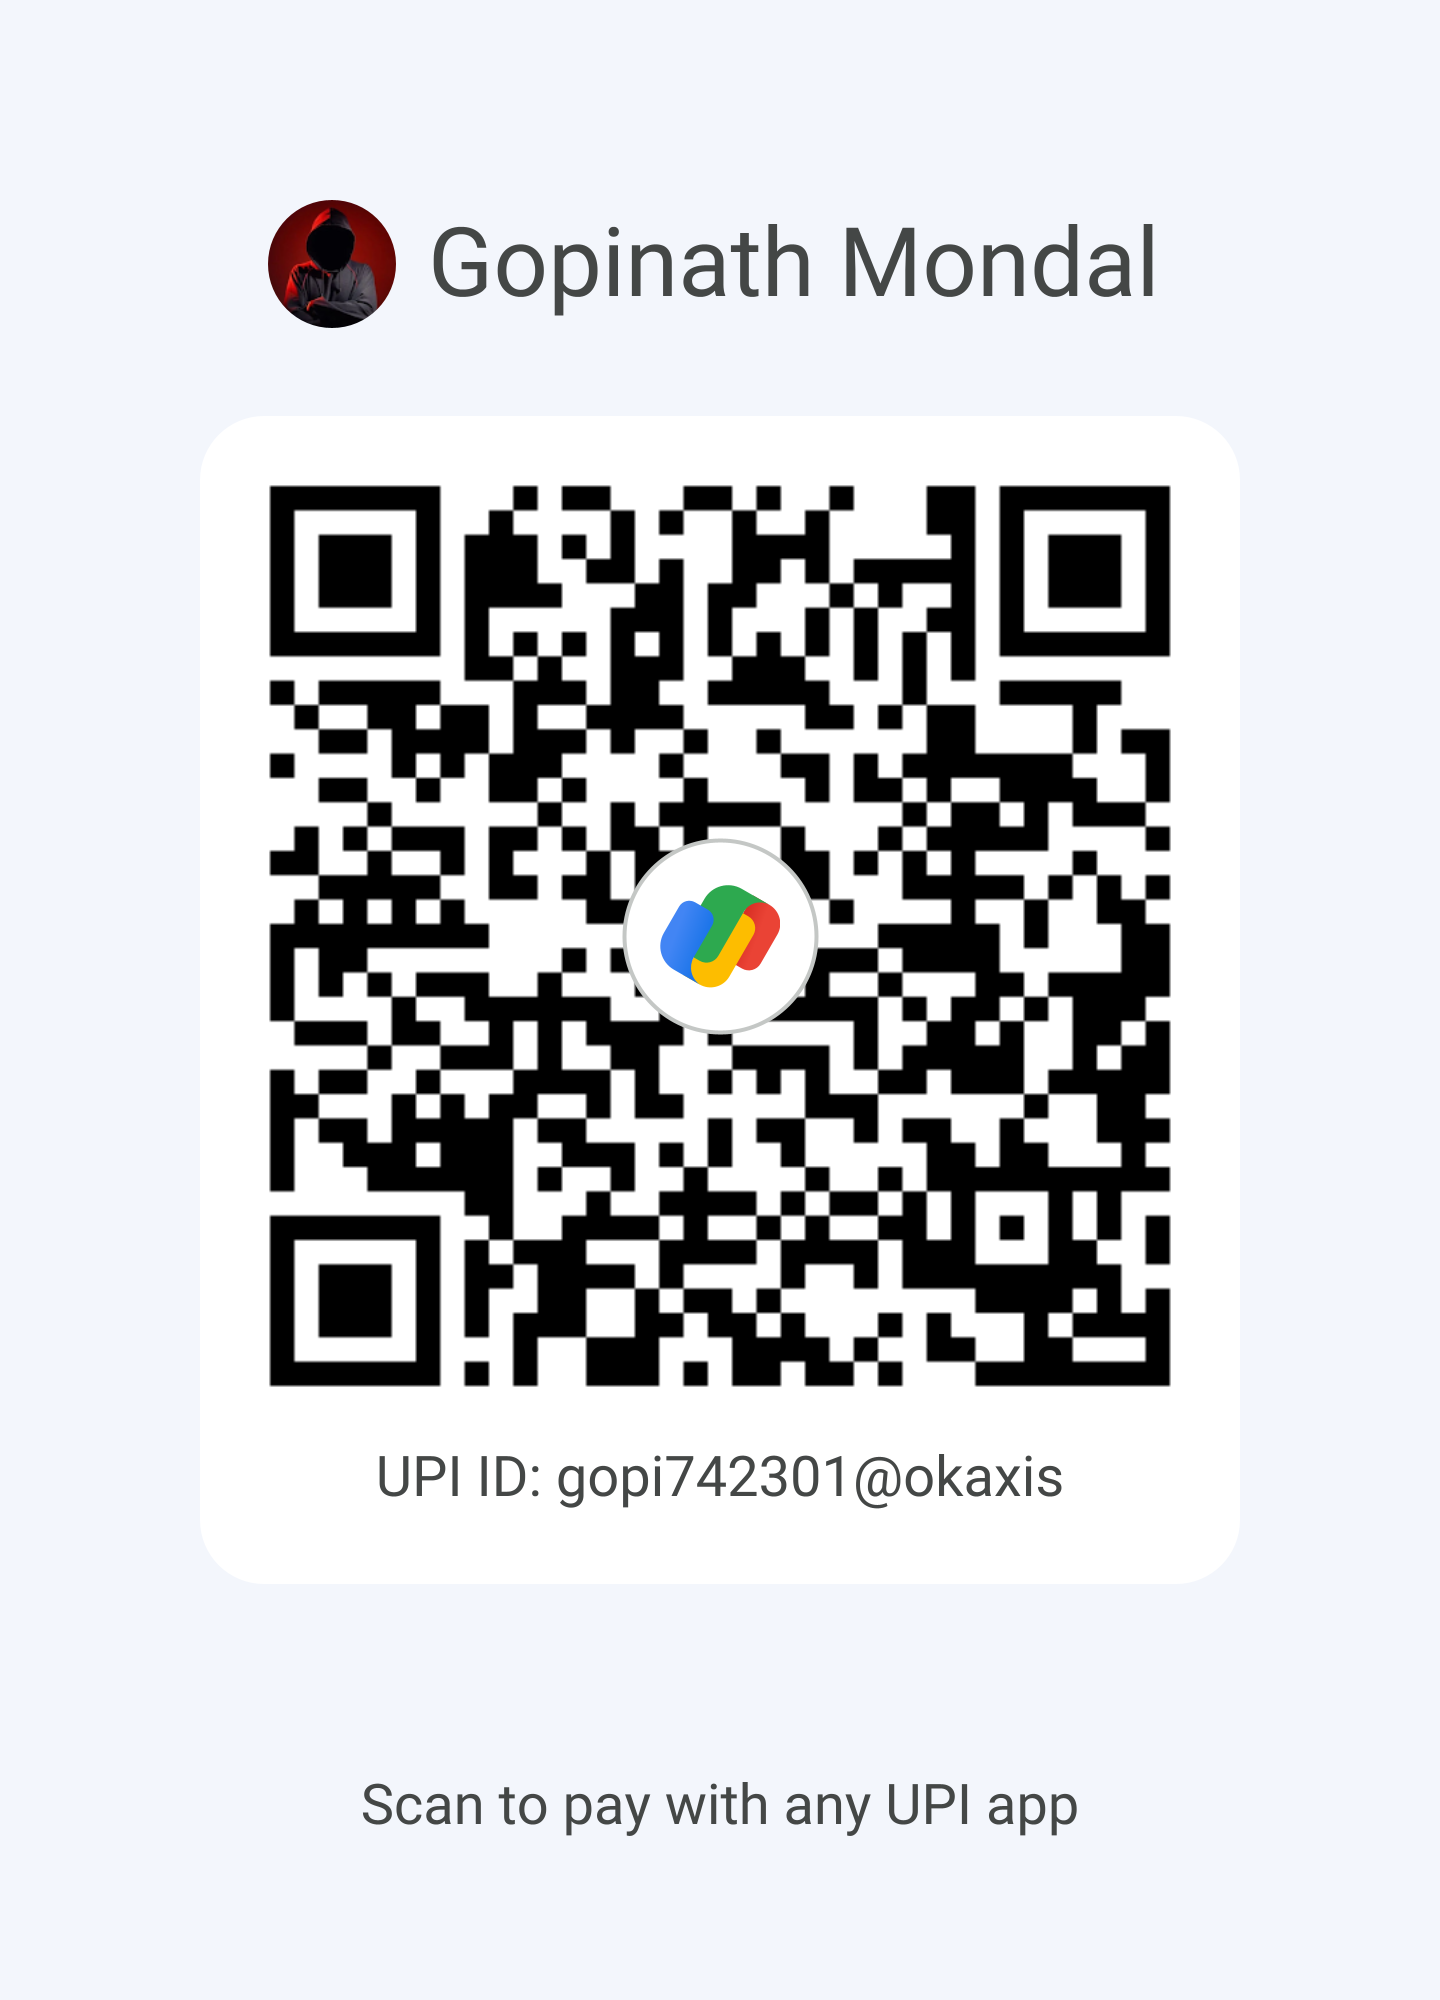
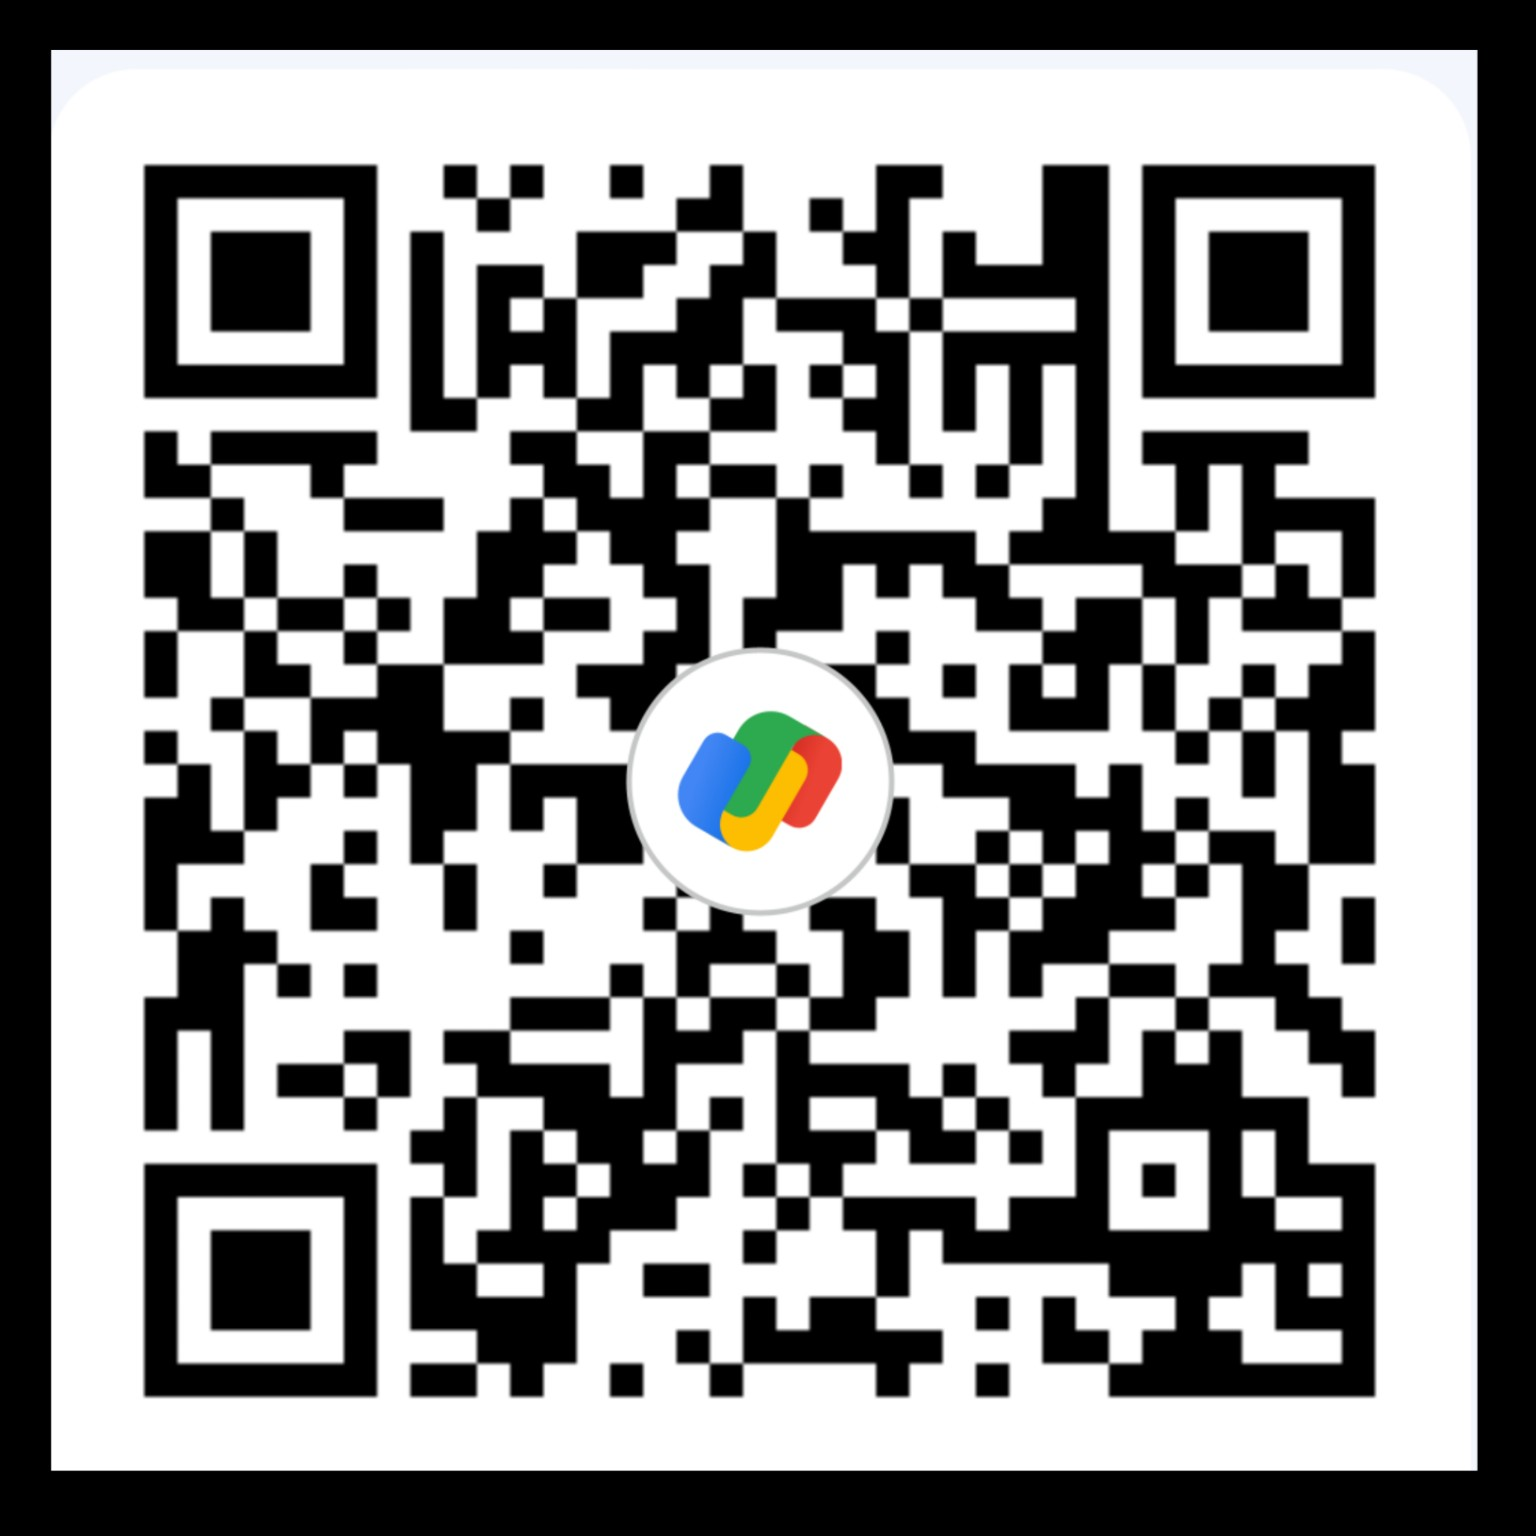
Update UPI payment and QR

diff --git a/src/App.jsx b/src/App.jsx
@@ -970,7 +970,7 @@ const createOrder = async () => {
     type="button"
     onClick={() => {
   const upiUrl =
-    `upi://pay?pa=gopi742301@okaxis` +
+    `upi://pay?pa=gopi742301@okicici` +
     `&pn=GOPI%20ONLINE` +
     `&am=${order.amount}` +
     `&cu=INR`
@@ -1534,7 +1534,7 @@ const createOrder = async () => {
       fontSize: '13px',
     }}
   >
-    UPI ID: gopi742301@okaxis
+    UPI ID: gopi742301@okicici
   </div>
 </div>
         <div
@@ -1555,7 +1555,7 @@ const createOrder = async () => {
             letterSpacing: '1px',
           }}
         >
-          gopi742301@okaxis
+          gopi742301@okicici
         </div>
       </div>
 <div style={{
@@ -1566,27 +1566,11 @@ const createOrder = async () => {
   border: '1px solid rgba(255, 193, 7, 0.25)',
   textAlign: 'center'
 }}>
-  <div style={{
-    fontSize: '12px',
-    fontWeight: '600',
-    opacity: 0.75,
-    marginBottom: '5px',
-    letterSpacing: '0.3px'
-  }}>
-    PAYMENT WITH PHONE NUMBER
-  </div>
-
-  <div style={{
-    fontSize: '17px',
-    fontWeight: '700',
-    letterSpacing: '0.5px'
-  }}>
-    9609047478
-  </div>
+  
 </div>
       {/* GOOGLE PAY */}
       <a
-        href={`upi://pay?pa=gopi742301@okaxis&pn=GOPI%20ONLINE&am=${paymentOrder.amount}&cu=INR`}
+        href={`upi://pay?pa=gopi742301@okicici&pn=GOPI%20ONLINE&am=${paymentOrder.amount}&cu=INR`}
         style={{
           display: 'block',
           textAlign: 'center',
